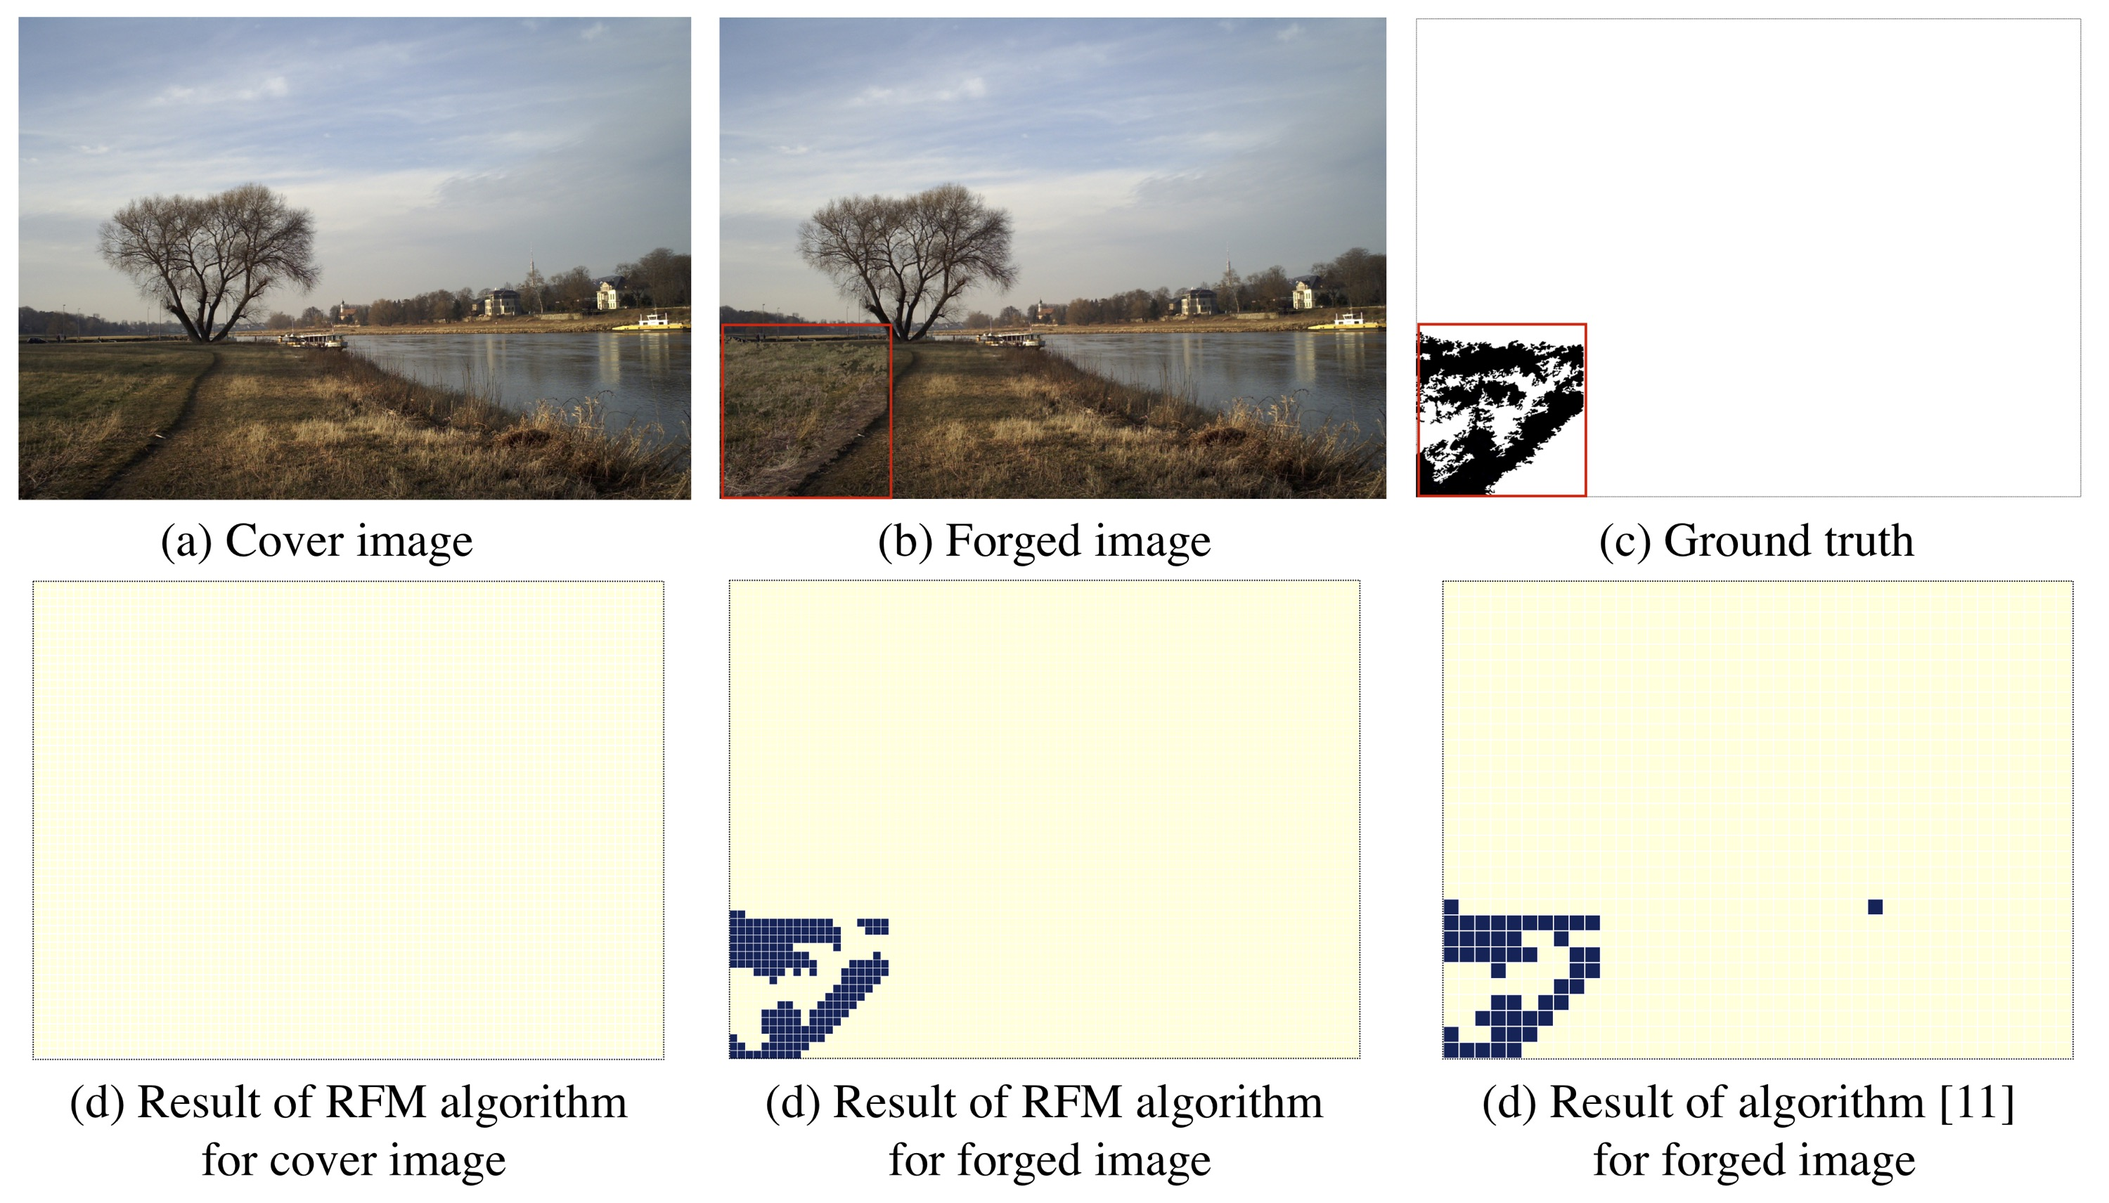
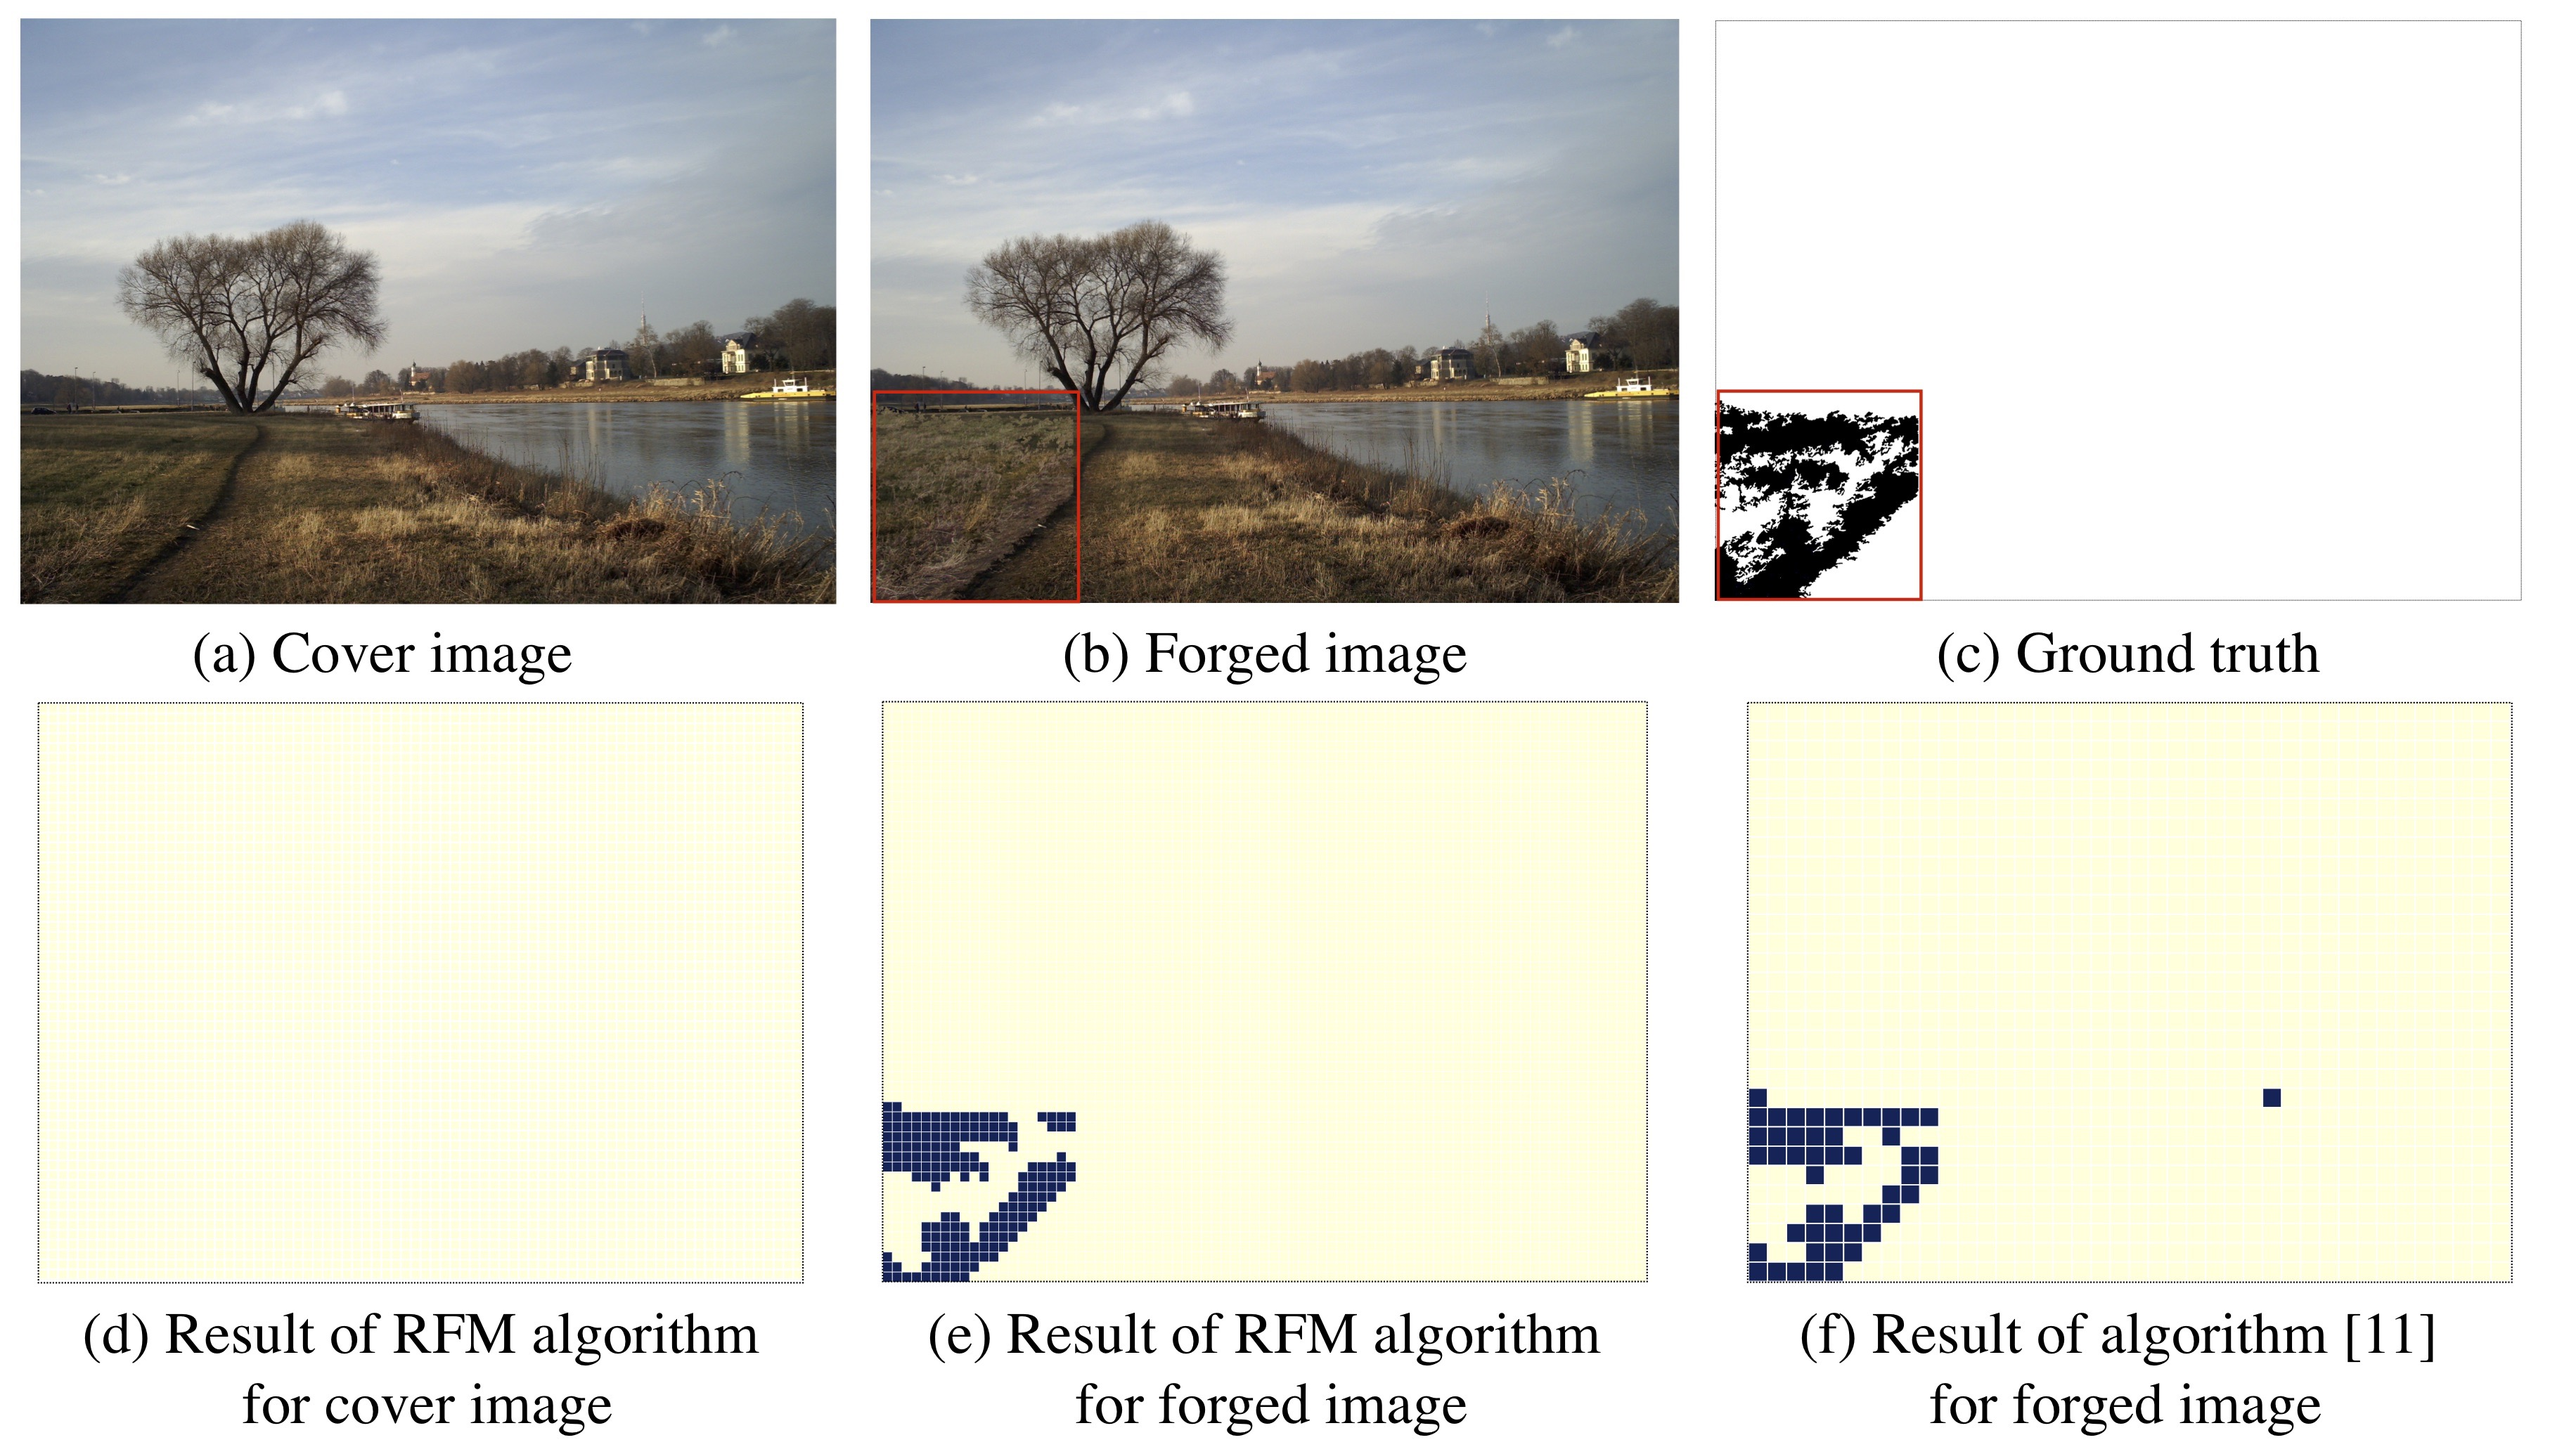
update readme

diff --git a/README.md b/README.md
@@ -67,7 +67,7 @@
 
 
 
-Results of comparative experiment with method proposed by Bondi et al. and our RFM method. (a)-(c) illustrates cover image, forged image, and ground truth image. (d) and (e) illustrates result of cover image and forged image with RFM algorithm, (f) show result of Bondi et al.
+Results of comparative experiment with method proposed by Bondi et al. and our RFM method. (a)-(c) illustrates cover image, forged image, and ground truth image. (d) and (e) illustrates result of cover image and forged image with RFM algorithm, (f) show result of Bondi et al. We improve localization fineness from 64 x 64 to 32 x 32 (see (f), (d)).
 
 <br>
 
